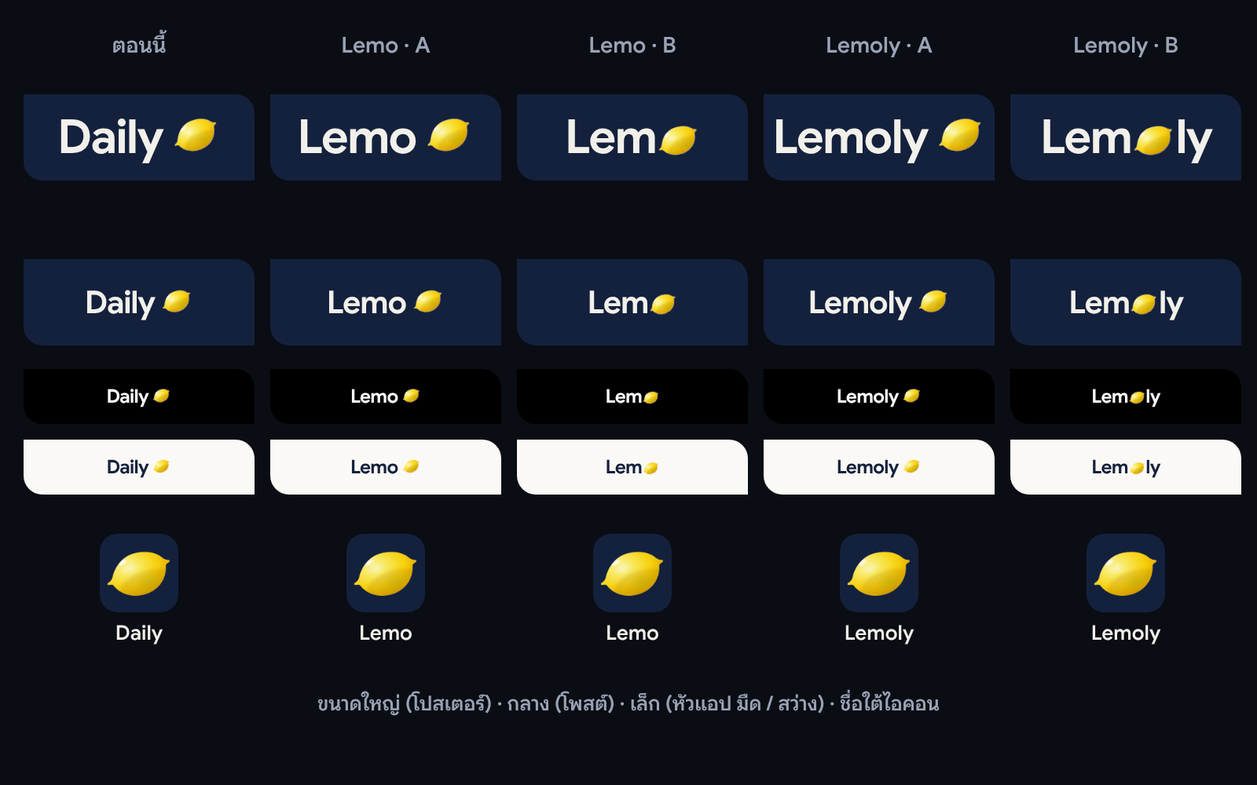
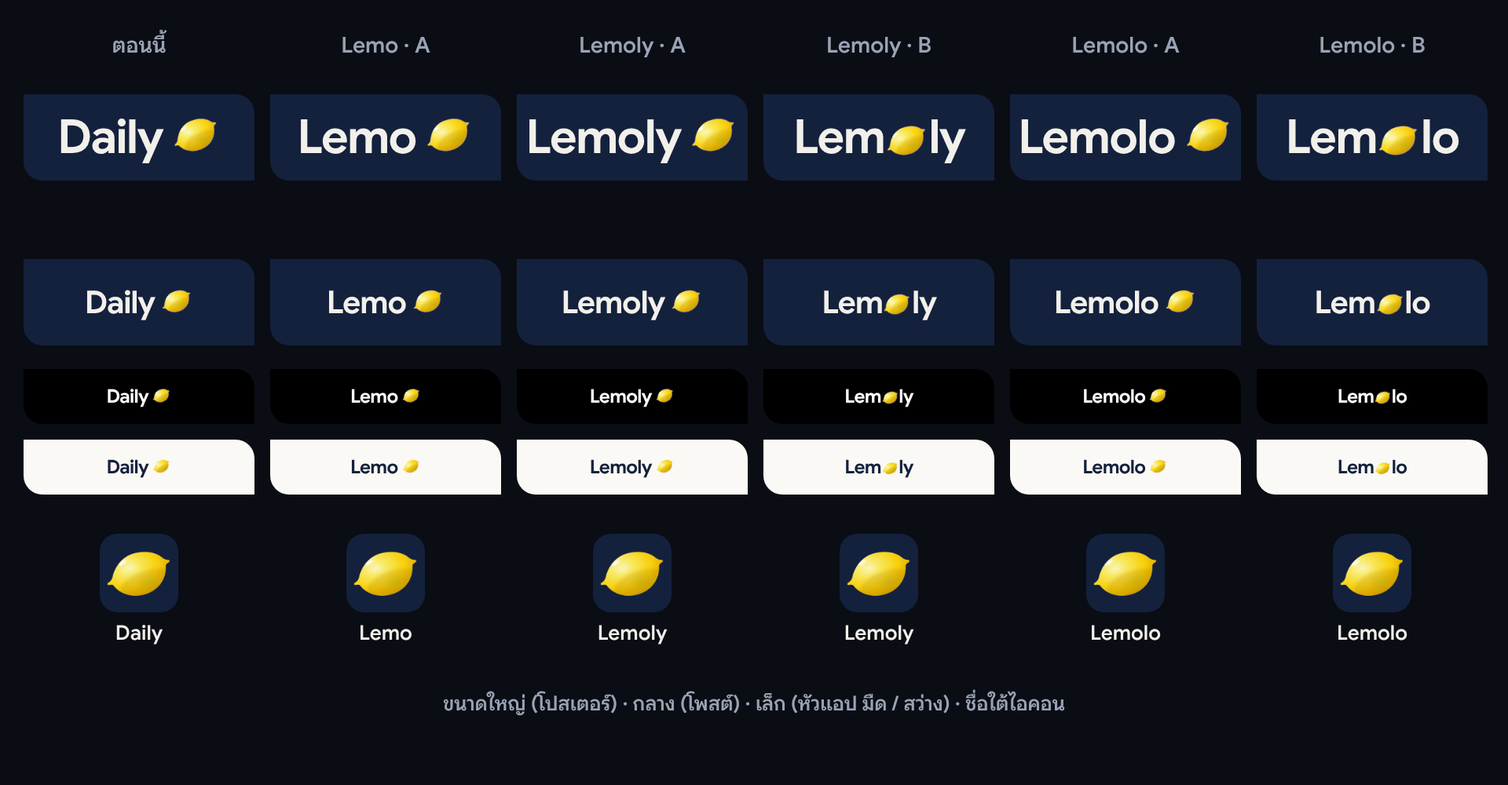
rename/lemo: add Lemolo and SEO notes to the name comparison
Claude-Session: https://claude.ai/code/session_01FFAqUGiRHvojFfAg75Z4ui

diff --git a/rename/lemo/page/index.html b/rename/lemo/page/index.html
@@ -1,4 +1,4 @@
-<title>Lemo · Lemoly Mockup</title>
+<title>Daily Rename Mockup</title>
 <meta name="claude:viewport-fit-sides" content="cover">
 <link rel="preconnect" href="https://fonts.googleapis.com">
 <link rel="stylesheet" href="https://fonts.googleapis.com/css2?family=Anuphan:wght@400;500;600;700&display=swap">
@@ -68,7 +68,7 @@ td:first-child { font-weight: 700; }
 
 <header class="mast">
   <div class="wrap">
-    <div class="word" aria-live="polite"><span id="heroName">Lemoly</span><img src="lemon.svg" alt=""></div>
+    <div class="word" aria-live="polite"><span id="heroName">Lemolo</span><img src="lemon.svg" alt=""></div>
     <p>ม็อกอัปชื่อใหม่แทน Daily ใช้หน้าจอจริงของแอปและสไตล์เดิมทุกอย่าง (กรมท่า + มะนาว มุมใบไม้ สีทึบ) เปลี่ยนแค่ชื่อ ยังไม่ได้แตะแอปจริง สลับชื่อและแบบโลโก้ได้ที่แถบด้านล่าง</p>
     <span class="pill">โดเมนและชื่อบัญชีในภาพเป็นตัวอย่างเท่านั้น</span>
   </div>
@@ -77,28 +77,40 @@ td:first-child { font-weight: 700; }
 <main class="wrap">
   <section class="verdict">
     <h2>สรุปสั้น</h2>
-    <p>ถ้าต้องเลือกระหว่างสองชื่อนี้ ผมเอียงไปทาง <b>Lemoly</b> เพราะเป็นคำเฉพาะ ค้นหาแล้วเจอเราง่าย ยังไม่เจอแอปไหนใช้ชื่อนี้ และลงท้าย -ly เหมือน Daily และ limonlay ทำให้ผู้ใช้เดิมเดาได้ว่าเป็นแอปเดิม ส่วน <b>Lemo</b> สั้นและติดหูกว่า แต่ชื่อนี้มีคนใช้แล้วหลายที่ ทั้งสองชื่อควรใช้โลโก้ <b>แบบ A</b> ในแอป ส่วน <b>แบบ B</b> เข้ากับ Lemoly มากกว่า ใช้เป็นโลโก้ใหญ่บนโปสเตอร์ได้</p>
+    <p>ถ้าเน้น SEO ชื่อต้องเป็นคำที่ค้นแล้วเจอแต่เรา <b>Daily</b> กับ <b>Lemo</b> ไม่ผ่านข้อนี้ เหลือ <b>Lemolo</b> กับ <b>Lemoly</b> ที่ค้นแล้วยังไม่เจอใครใช้ชื่อตรงตัว ผมให้ <b>Lemolo</b> เป็นอันดับหนึ่ง เพราะไม่ใกล้คำไหนในพจนานุกรม ส่วน Lemoly ห่างจากคำอังกฤษ lemony แค่ตัวเดียว Google อาจถามว่า "หมายถึง lemony หรือเปล่า" และมือถืออาจแก้คำให้ <b>Lemoly</b> เหมาะเป็นตัวสำรอง ถ้าอยากให้ชื่อใหม่ต่อจาก Daily (ลงท้าย -ly) ทุกชื่อควรใช้โลโก้ <b>แบบ A</b> ในแอป ส่วน <b>แบบ B</b> เข้ากับ Lemolo ที่สุด เพราะมะนาวอยู่ข้างตัว o จริง</p>
+  </section>
+
+  <section class="sec card">
+    <h2>ชื่อเฉพาะช่วย SEO ตรงไหน</h2>
+    <ul class="clean">
+      <li><b>ค้นชื่อแล้วเจอเรา:</b> คนที่เห็นคลิปแล้วไปค้นชื่อ ต้องเจอเราเป็นอันดับแรก Daily ทำไม่ได้เพราะเป็นคำทั่วไป ชื่อที่ไม่มีใครใช้จะได้ผลค้นหาทั้งหน้าเป็นของเรา</li>
+      <li><b>คนที่ยังไม่รู้จักเรา</b> ค้นด้วยคำอย่าง "แอปจดรายรับรายจ่าย" หรือ "家計簿アプリ" ชื่อไม่ช่วยตรงนี้ ต้องใช้บทความและหน้าเว็บ (คำค้น 18 ภาษาอยู่ในชุดการตลาดแล้ว) จึงควรใส่ทั้งสองอย่างในชื่อหน้าเว็บ เช่น "Lemolo · แอปจดรายรับรายจ่าย"</li>
+      <li><b>โดเมนของตัวเอง</b> (เช่น lemolo.com หรือ lemolo.app) จำง่ายและเป็นแบรนด์ชัดกว่าซับโดเมน ผมเช็กไม่ได้ว่าโดเมนว่างไหม เพราะเครื่องนี้เข้าระบบเช็กโดเมนไม่ได้ ลองค้นใน Cloudflare Registrar ที่ใช้อยู่ได้เลย</li>
+      <li><b>ชื่อบัญชีโซเชียลตรงกันทุกที่</b> เช่น @lemolo ต้องเช็กก่อนตัดสินใจ เพราะคนค้นชื่อในแอปโซเชียลด้วย</li>
+      <li><b>ย้ายตอนนี้เสียน้อยที่สุด:</b> ยังไม่มีอันดับค้นหาให้เสีย ถ้าย้ายโดเมน ให้ตั้ง redirect 301 จาก daily.limonlay.com ไปชื่อใหม่</li>
+    </ul>
   </section>
 
   <section class="sec">
     <h2>เทียบทุกขนาด</h2>
-    <p class="lead">จากใหญ่ไปเล็ก: โปสเตอร์ · โพสต์ · หัวแอป (มืด / สว่าง) · ชื่อใต้ไอคอน ดูตัวเล็กสุดเป็นหลัก เพราะคนเห็นบ่อยที่สุด</p>
+    <p class="lead">Lemo แบบ B ตัดออกเพราะอ่านเป็น "Lem" จากใหญ่ไปเล็ก: โปสเตอร์ · โพสต์ · หัวแอป (มืด / สว่าง) · ชื่อใต้ไอคอน ดูตัวเล็กสุดเป็นหลัก เพราะคนเห็นบ่อยที่สุด</p>
     <figure class="card" style="margin-top:12px"><img src="img/names-compare.webp" alt="Daily, Lemo และ Lemoly แบบ A และ B เทียบกันทุกขนาด"></figure>
   </section>
 
   <section class="sec">
-    <h2>Lemo กับ Lemoly</h2>
+    <h2>เทียบสามชื่อ</h2>
     <div class="tablewrap" style="margin-top:10px"><table>
-      <thead><tr><th></th><th>Lemo</th><th>Lemoly</th></tr></thead>
+      <thead><tr><th></th><th>Lemo</th><th>Lemoly</th><th>Lemolo</th></tr></thead>
       <tbody>
-        <tr><td>ความยาว</td><td><span class="plus">สั้น</span> 4 ตัว จำง่าย</td><td>6 ตัว ยาวกว่า Daily 1 ตัว</td></tr>
-        <tr><td>ต่อจาก Daily</td><td>เสียงต่างจากเดิมทั้งคำ</td><td><span class="plus">ลงท้าย -ly</span> เหมือน Daily และ limonlay ผู้ใช้เดิมเดาได้</td></tr>
-        <tr><td>อ่านออกเสียง</td><td>ไทย เลโม่ · ญี่ปุ่น レモ (ใกล้ レモン)</td><td>ไทย เลโมลี่ · ญี่ปุ่น レモリー · คนพูดอังกฤษอาจอ่านได้ 2 แบบ (LEM-uh-lee / leh-MOH-lee)</td></tr>
-        <tr><td>สะกด</td><td><span class="plus">ง่าย</span></td><td><span class="minus">อาจพิมพ์เป็น lemony</span> (คำอังกฤษที่มีอยู่แล้ว มือถืออาจแก้คำให้อัตโนมัติ) หรือ lemolly</td></tr>
-        <tr><td>ชื่อซ้ำ</td><td><span class="minus">มีแล้วหลายที่:</span> แอปแชท 17+ "Lemo - Chill &amp; Chat", แอปการศึกษา Lemo, แอปฟิตเนส LEMO, ขั้วต่อไฟฟ้า LEMO</td><td><span class="plus">ยังไม่เจอแอปชื่อนี้</span> ที่ใกล้กัน: แอปวิดีโอ Lumoly (18+) และเครื่องหมายการค้า LEMOLLY ในสหรัฐ (หมวดเสื้อผ้า / อิเล็กทรอนิกส์ ตามผลค้นหา ยังไม่ได้ยืนยัน)</td></tr>
-        <tr><td>ค้นหาเจอ</td><td>คำสั้นทั่วไป ผลค้นหาปนกับของอื่น</td><td><span class="plus">คำเฉพาะ</span> ค้นแล้วเจอเราง่ายกว่า</td></tr>
-        <tr><td>โลโก้แบบ B</td><td>มะนาวอยู่ท้ายคำ คนจะอ่านเป็น "Lem"</td><td><span class="plus">มะนาวอยู่กลางคำ</span> ตัวใหญ่อ่านเป็น o ได้ดีกว่า ตัวเล็กยังอ่านยาก</td></tr>
-        <tr><td>ความหมายในภาษาอื่น</td><td><span class="minus">อินโดนีเซีย:</span> คำสแลง "lemot" แปลว่าช้า อืด</td><td>ยังไม่เจอปัญหาชัดๆ (ยังไม่ได้เช็กครบ 18 ภาษา)</td></tr>
+        <tr><td>ความยาว</td><td><span class="plus">สั้น</span> 4 ตัว จำง่าย</td><td>6 ตัว ยาวกว่า Daily 1 ตัว</td><td>6 ตัว</td></tr>
+        <tr><td>ต่อจาก Daily</td><td>เสียงต่างจากเดิมทั้งคำ</td><td><span class="plus">ลงท้าย -ly</span> เหมือน Daily และ limonlay ผู้ใช้เดิมเดาได้</td><td>เสียงใหม่ทั้งคำ</td></tr>
+        <tr><td>อ่านออกเสียง</td><td>ไทย เลโม่ · ญี่ปุ่น レモ (ใกล้ レモン)</td><td>ไทย เลโมลี่ · ญี่ปุ่น レモリー · คนพูดอังกฤษอาจอ่านได้ 2 แบบ (LEM-uh-lee / leh-MOH-lee)</td><td>ไทย เลโมโล · ญี่ปุ่น レモロ · เกาหลี 레몰로 · <span class="plus">อ่านได้แบบเดียว</span></td></tr>
+        <tr><td>สะกด</td><td><span class="plus">ง่าย</span></td><td><span class="minus">อาจพิมพ์เป็น lemony</span> (คำอังกฤษที่มีอยู่แล้ว มือถืออาจแก้คำให้อัตโนมัติ) หรือ lemolly</td><td><span class="plus">ฟังครั้งเดียวสะกดได้</span> อาจมีคนพิมพ์เป็น lemollo บ้าง</td></tr>
+        <tr><td>ชื่อซ้ำ</td><td><span class="minus">มีแล้วหลายที่:</span> แอปแชท 17+ "Lemo - Chill &amp; Chat", แอปการศึกษา Lemo, แอปฟิตเนส LEMO, ขั้วต่อไฟฟ้า LEMO</td><td><span class="plus">ยังไม่เจอแอปชื่อนี้</span> ที่ใกล้กัน: แอปวิดีโอ Lumoly (18+) และเครื่องหมายการค้า LEMOLLY ในสหรัฐ (หมวดเสื้อผ้า / อิเล็กทรอนิกส์ ตามผลค้นหา ยังไม่ได้ยืนยัน)</td><td><span class="plus">ยังไม่เจอใครใช้ชื่อนี้</span> ที่ใกล้กันคือภาษา Lemolang บนเกาะสุลาเวสี (ไม่เกี่ยวกัน)</td></tr>
+        <tr><td>ใกล้คำในพจนานุกรม (SEO)</td><td><span class="minus">ชนแบรนด์อื่นหลายราย</span></td><td><span class="minus">ห่างจาก lemony ตัวเดียว</span> Google อาจแก้คำค้นให้</td><td><span class="plus">ไม่ใกล้คำไหน</span></td></tr>
+        <tr><td>ค้นหาเจอ</td><td>คำสั้นทั่วไป ผลค้นหาปนกับของอื่น</td><td><span class="plus">คำเฉพาะ</span> ค้นแล้วเจอเราง่ายกว่า</td><td><span class="plus">คำเฉพาะ</span> ค้นแล้วเจอเราง่าย</td></tr>
+        <tr><td>โลโก้แบบ B</td><td>มะนาวอยู่ท้ายคำ คนจะอ่านเป็น "Lem"</td><td><span class="plus">มะนาวอยู่กลางคำ</span> ตัวใหญ่อ่านเป็น o ได้ดีกว่า ตัวเล็กยังอ่านยาก</td><td><span class="plus">มะนาวอยู่ข้าง o จริง</span> อ่านเป็น o ชัดที่สุดในสามชื่อ ตัวเล็กยังอ่านยาก</td></tr>
+        <tr><td>ความหมายในภาษาอื่น</td><td><span class="minus">อินโดนีเซีย:</span> คำสแลง "lemot" แปลว่าช้า อืด</td><td>ยังไม่เจอปัญหาชัดๆ (ยังไม่ได้เช็กครบ 18 ภาษา)</td><td>ยังไม่เจอปัญหาชัดๆ (ยังไม่ได้เช็กครบ 18 ภาษา)</td></tr>
       </tbody>
     </table></div>
   </section>
@@ -106,7 +118,8 @@ td:first-child { font-weight: 700; }
   <div class="switch" role="group" aria-label="เลือกชื่อและแบบโลโก้ในม็อกอัป">
     <div class="grp"><span>ชื่อ</span>
       <button type="button" id="nLemo" data-n="lemo" aria-pressed="false">Lemo</button>
-      <button type="button" id="nLemoly" data-n="lemoly" aria-pressed="true">Lemoly</button></div>
+      <button type="button" id="nLemoly" data-n="lemoly" aria-pressed="false">Lemoly</button>
+      <button type="button" id="nLemolo" data-n="lemolo" aria-pressed="true">Lemolo</button></div>
     <div class="grp"><span>โลโก้</span>
       <button type="button" id="oA" data-o="A" aria-pressed="true">A · ชื่อ + มะนาว</button>
       <button type="button" id="oB" data-o="B" aria-pressed="false">B · มะนาวเป็น o</button></div>
@@ -115,7 +128,7 @@ td:first-child { font-weight: 700; }
   <section class="sec">
     <h2>โลโก้ 3 แบบ</h2>
     <p class="lead">แถวบนสุดคือ Daily ตอนนี้ ไว้เทียบ ไอคอนแอปไม่ต้องเปลี่ยน เพราะเป็นมะนาวลูกเดียวอยู่แล้ว</p>
-    <figure class="card" style="margin-top:12px"><img data-src="N-wordmarks" src="img/lemoly-wordmarks.webp" alt="โลโก้ 3 แบบของชื่อที่เลือก เทียบกับ Daily"></figure>
+    <figure class="card" style="margin-top:12px"><img data-src="N-wordmarks" src="img/lemolo-wordmarks.webp" alt="โลโก้ 3 แบบของชื่อที่เลือก เทียบกับ Daily"></figure>
     <div class="three" style="margin-top:12px">
       <div class="card opt"><h3>A · ชื่อ + มะนาว<span class="tag">แนะนำในแอป</span></h3><p>โครงเดียวกับ Daily ตอนนี้ อ่านออกทุกขนาด ตั้งแต่หัวแอปจนถึงไอคอนเล็กๆ</p></div>
       <div class="card opt"><h3>B · มะนาวเป็นตัว o</h3><p>ตัวใหญ่ดูเป็นโลโก้และจำง่าย กับ Lemoly อ่านเป็น o ได้ดีกว่า ตัวเล็กยังอ่านยากทั้งสองชื่อ</p></div>
@@ -126,36 +139,36 @@ td:first-child { font-weight: 700; }
   <section class="sec">
     <h2>ในแอป</h2>
     <p class="lead">หัวแอปจริง 3 ภาษา ทั้งโหมดมืดและสว่าง</p>
-    <figure style="margin-top:12px"><img data-src="N-X-app" src="img/lemoly-A-app.webp" alt="หน้าแรกของแอปที่หัวเป็นชื่อใหม่ ภาษาไทย อังกฤษ ญี่ปุ่น"></figure>
+    <figure style="margin-top:12px"><img data-src="N-X-app" src="img/lemolo-A-app.webp" alt="หน้าแรกของแอปที่หัวเป็นชื่อใหม่ ภาษาไทย อังกฤษ ญี่ปุ่น"></figure>
   </section>
 
   <section class="sec two">
-    <figure><img data-src="N-X-splash" src="img/lemoly-A-splash.webp" alt="หน้าเปิดแอปของชื่อใหม่"><figcaption>หน้าเปิดแอป (splash)</figcaption></figure>
-    <figure><img data-src="N-home-screen" src="img/lemoly-home-screen.webp" alt="ไอคอนแอปบนหน้าจอโฮมพร้อมชื่อใหม่"><figcaption>บนหน้าจอโฮม: ไอคอนเดิม ชื่อใต้ไอคอนเปลี่ยน</figcaption></figure>
+    <figure><img data-src="N-X-splash" src="img/lemolo-A-splash.webp" alt="หน้าเปิดแอปของชื่อใหม่"><figcaption>หน้าเปิดแอป (splash)</figcaption></figure>
+    <figure><img data-src="N-home-screen" src="img/lemolo-home-screen.webp" alt="ไอคอนแอปบนหน้าจอโฮมพร้อมชื่อใหม่"><figcaption>บนหน้าจอโฮม: ไอคอนเดิม ชื่อใต้ไอคอนเปลี่ยน</figcaption></figure>
   </section>
 
   <section class="sec">
     <h2>โปรไฟล์โซเชียล</h2>
-    <figure class="narrow" style="margin-top:12px"><img data-src="N-X-profile" src="img/lemoly-A-profile.webp" alt="หน้าโปรไฟล์โซเชียลของชื่อใหม่"></figure>
+    <figure class="narrow" style="margin-top:12px"><img data-src="N-X-profile" src="img/lemolo-A-profile.webp" alt="หน้าโปรไฟล์โซเชียลของชื่อใหม่"></figure>
   </section>
 
   <section class="sec">
     <h2>ก่อน / หลัง</h2>
     <div class="vs card" style="margin-top:12px">
       <figure><div class="lab old">Daily ตอนนี้</div><img src="img/daily-square-th.webp" alt="โพสต์สี่เหลี่ยมของ Daily"></figure>
-      <figure><div class="lab" id="afterLab1">Lemoly</div><img data-src="N-X-square-th" src="img/lemoly-A-square-th.webp" alt="โพสต์สี่เหลี่ยมแบบเดียวกันกับชื่อใหม่"></figure>
+      <figure><div class="lab" id="afterLab1">Lemolo</div><img data-src="N-X-square-th" src="img/lemolo-A-square-th.webp" alt="โพสต์สี่เหลี่ยมแบบเดียวกันกับชื่อใหม่"></figure>
     </div>
     <div class="vs card" style="margin-top:12px">
       <figure><div class="lab old">Daily ตอนนี้</div><img src="img/daily-x-header.webp" alt="หัวโปรไฟล์ X ของ Daily"></figure>
-      <figure><div class="lab" id="afterLab2">Lemoly</div><img data-src="N-X-x-header" src="img/lemoly-A-x-header.webp" alt="หัวโปรไฟล์ X ของชื่อใหม่"></figure>
+      <figure><div class="lab" id="afterLab2">Lemolo</div><img data-src="N-X-x-header" src="img/lemolo-A-x-header.webp" alt="หัวโปรไฟล์ X ของชื่อใหม่"></figure>
     </div>
-    <figure class="narrow" style="margin-top:12px"><img data-src="N-X-square-en" src="img/lemoly-A-square-en.webp" alt="โพสต์ภาษาอังกฤษของชื่อใหม่"><figcaption>โพสต์ภาษาอังกฤษ</figcaption></figure>
+    <figure class="narrow" style="margin-top:12px"><img data-src="N-X-square-en" src="img/lemolo-A-square-en.webp" alt="โพสต์ภาษาอังกฤษของชื่อใหม่"><figcaption>โพสต์ภาษาอังกฤษ</figcaption></figure>
   </section>
 
   <section class="sec card">
     <h2>ควรรู้ก่อนตัดสินใจ (ทั้งสองชื่อ)</h2>
     <ul class="clean">
-      <li><b>เช็กเครื่องหมายการค้าก่อนใช้จริง</b> ที่กรมทรัพย์สินทางปัญญาและ WIPO ในหมวดซอฟต์แวร์และการเงิน ใน store อาจต้องเติมคำต่อท้าย เช่น "Lemoly: จดรายรับรายจ่าย"</li>
+      <li><b>เช็กเครื่องหมายการค้าก่อนใช้จริง</b> ที่กรมทรัพย์สินทางปัญญาและ WIPO ในหมวดซอฟต์แวร์และการเงิน ใน store อาจต้องเติมคำต่อท้าย เช่น "Lemolo: จดรายรับรายจ่าย"</li>
       <li><b>จังหวะตอนนี้ดีที่สุด:</b> ยังไม่ได้เปิดบัญชีโซเชียล และยังไม่ได้ส่ง Google brand verification (T-27) กับ Paddle live (T-26) <span class="warn">ถ้าจะเปลี่ยน ควรตัดสินก่อนส่งสองอย่างนี้</span> เพราะชื่อแอปผูกกับทั้งคู่</li>
       <li><b>โดเมน:</b> ในภาพใช้ &lt;ชื่อ&gt;.limonlay.com เป็นตัวอย่าง เลือกได้ว่าจะใช้ซับโดเมนนี้ โดเมนใหม่ หรือเก็บ daily.limonlay.com ไว้ (ชื่อกับลิงก์จะไม่ตรงกัน)</li>
       <li><b>ไอคอนไม่ต้องเปลี่ยน</b> เป็นมะนาวลูกเดียวอยู่แล้ว ผู้ใช้เดิมยังเห็นไอคอนเดิมบนหน้าจอโฮม</li>
@@ -176,8 +189,8 @@ td:first-child { font-weight: 700; }
 
 <script>
 (function () {
-  const st = { n: 'lemoly', o: 'A' };
-  const NAMES = { lemo: 'Lemo', lemoly: 'Lemoly' };
+  const st = { n: 'lemolo', o: 'A' };
+  const NAMES = { lemo: 'Lemo', lemoly: 'Lemoly', lemolo: 'Lemolo' };
   function apply() {
     document.querySelectorAll('[data-n]').forEach((b) => b.setAttribute('aria-pressed', String(b.dataset.n === st.n)));
     document.querySelectorAll('[data-o]').forEach((b) => b.setAttribute('aria-pressed', String(b.dataset.o === st.o)));

diff --git a/rename/lemo/mock.js b/rename/lemo/mock.js
@@ -1,4 +1,4 @@
-/* Mockups for a possible rename Daily → Lemo / Lemoly. Not the real brand yet: nothing here ships.
+/* Mockups for a possible rename Daily → Lemo / Lemoly / Lemolo. Not the real brand yet: nothing here ships.
    Same rules as brand/DESIGN.md. The app screenshots are the real ones with the header wordmark painted over. */
 (function () {
   const LEMON = '../../platforms/art/lemon.svg';
@@ -62,9 +62,9 @@
   };
 
   L.compare = () => {
-    const c = canvas(1600, 1000, 'th', 'night');
-    const cols = [['Daily', 'D'], ['Lemo', 'A'], ['Lemo', 'B'], ['Lemoly', 'A'], ['Lemoly', 'B']];
-    const head = ['ตอนนี้', 'Lemo · A', 'Lemo · B', 'Lemoly · A', 'Lemoly · B'];
+    const c = canvas(1920, 1000, 'th', 'night');
+    const cols = [['Daily', 'D'], ['Lemo', 'A'], ['Lemoly', 'A'], ['Lemoly', 'B'], ['Lemolo', 'A'], ['Lemolo', 'B']];
+    const head = ['ตอนนี้', 'Lemo · A', 'Lemoly · A', 'Lemoly · B', 'Lemolo · A', 'Lemolo · B'];
     cols.forEach(([n, k], i) => {
       NAME = n;
       const x = 30 + i * 314;
@@ -75,7 +75,7 @@
       const ic = box(c, x + 97, 680, 100, 100, 'ico', `<img src="${ICON}" alt="" style="width:100%;height:100%;display:block">`, {});
       box(c, x, 790, 294, null, 'lbl', esc(n), { fontSize: '26px', textAlign: 'center', color: 'var(--cream)' });
     });
-    box(c, 30, 880, 1540, null, 'lbl', 'ขนาดใหญ่ (โปสเตอร์) · กลาง (โพสต์) · เล็ก (หัวแอป มืด / สว่าง) · ชื่อใต้ไอคอน', { fontSize: '26px', color: '#9aa3b5', textAlign: 'center' });
+    box(c, 30, 880, 1860, null, 'lbl', 'ขนาดใหญ่ (โปสเตอร์) · กลาง (โพสต์) · เล็ก (หัวแอป มืด / สว่าง) · ชื่อใต้ไอคอน', { fontSize: '26px', color: '#9aa3b5', textAlign: 'center' });
     NAME = 'Lemo';
   };
 
@@ -172,8 +172,8 @@
   };
 
   const J = [];
-  J.push({ kind: 'compare', w: 1600, h: 1000, file: 'names-compare.png' });
-  ['Lemo', 'Lemoly'].forEach((name) => {
+  J.push({ kind: 'compare', w: 1920, h: 1000, file: 'names-compare.png' });
+  ['Lemo', 'Lemoly', 'Lemolo'].forEach((name) => {
     const f = name.toLowerCase();
     J.push({ kind: 'wordmarks', name, w: 1600, h: 1080, file: `${f}-wordmarks.png` });
     ['A', 'B'].forEach((k) => {

diff --git a/rename/lemo/README.md b/rename/lemo/README.md
@@ -1,8 +1,8 @@
-# Lemo / Lemoly — rename mockups (not decided)
+# Lemo / Lemoly / Lemolo — rename mockups (not decided)
 
-Owner 2026-11-22: thinking about renaming Daily → Lemo, then asked about Lemoly too; mockups for both. Nothing in the app changes from this folder.
+Owner 2026-11-22: thinking about renaming Daily → Lemo, then Lemoly, then a unique name for SEO (Lemolo added); mockups for all three. Nothing in the app changes from this folder.
 
-- `mock.html` + `mock.js` (job `name` = Lemo / Lemoly): a size comparison of every option, wordmark options (A name + lemon, B lemon as the "o", C lowercase), the real app screens with the header
+- `mock.html` + `mock.js` (job `name` = Lemo / Lemoly / Lemolo): a size comparison of every option, wordmark options (A name + lemon, B lemon as the "o", C lowercase), the real app screens with the header
   wordmark painted over, splash, home screen, social profile, a square post and an X header (A and B variants).
 - Render: `PAGE=rename/lemo/mock.html OUT=rename/lemo/out node platforms/render.cjs` → `out/*.png`.
 - `page/`: the comparison page published for the owner (Daily vs Lemo, notes on name clashes and what a rename touches).
